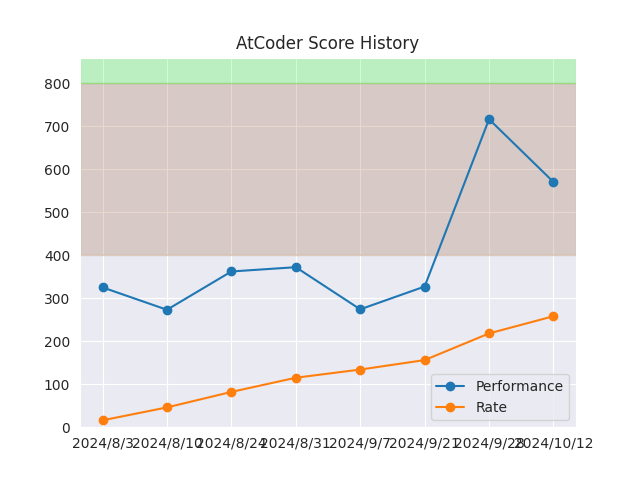
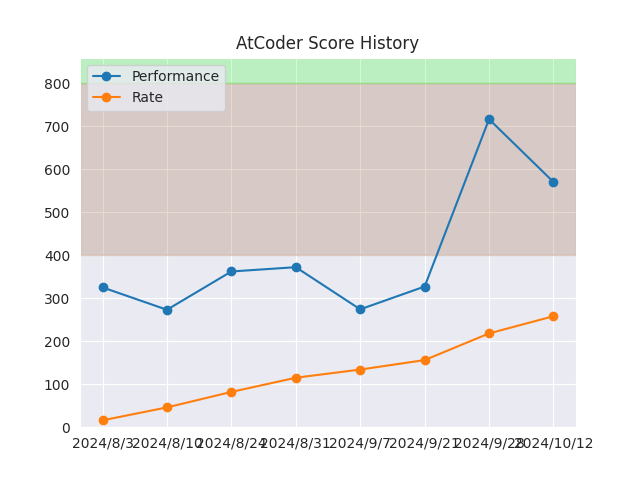
凡例の位置の変更

Changed region(s): [[0.125, 0.125, 0.375, 0.25], [0.6875, 0.7812, 0.875, 0.875], [0.6875, 0.8438, 0.7188, 0.875]]

diff --git a/main.py b/main.py
@@ -25,7 +25,7 @@ ax.axhspan(ymin=2800, ymax=4000, color='red', alpha=0.2) # 赤色
 ax.set_ylim(bottom=0, top=max(max(df['performance']), max(df['rate']))*1.2)
 
 ax.set_title('AtCoder Score History')
-ax.legend(loc='lower right')
+ax.legend(loc='upper left')
 
 plt.savefig('./output/fig.png')
 plt.show()
